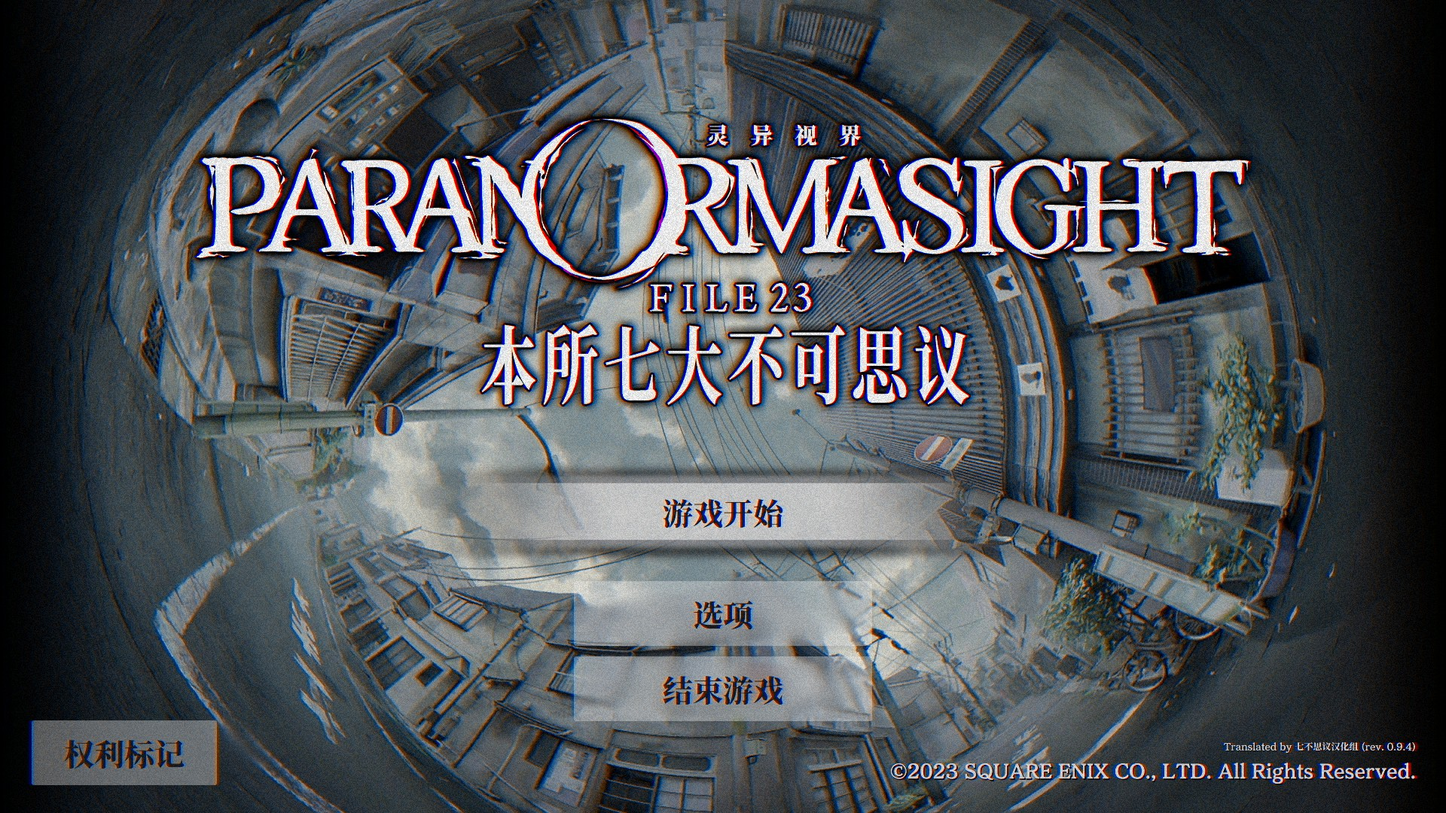
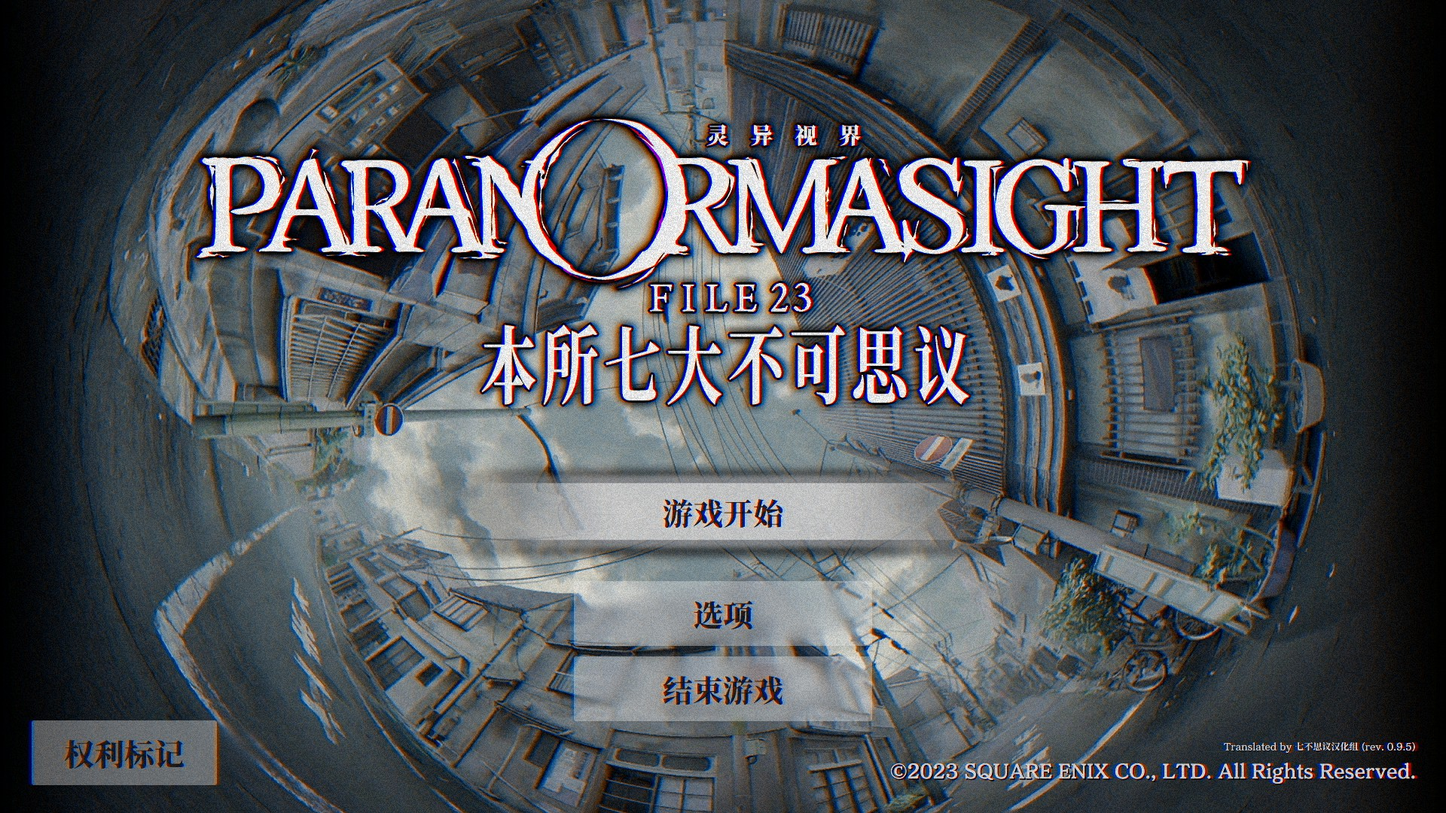
Rev. 0.9.5

diff --git a/README.md b/README.md
@@ -9,9 +9,11 @@
 
 目前，本项目正处于校对阶段，仅供试玩。如遇到文字不通顺的地方，请等待后续版本或参与翻译校对。
 
-本补丁基于 Steam 版制作，无法直接用于其他平台版本。
+本补丁基于 Steam 商店的 1.1 版制作（生成版本 ID：11663925），无法直接用于其他平台版本。
 
 ## 更新历史
+- 0.9.5（2023-07-27）：
+  - 匹配游戏 1.1 版本。
 - 0.9.4（2023-07-09）：
   - 修改了“狐狗狸”的文字盘。
   - 改进了姓名输入的判断方式。
@@ -55,7 +57,7 @@
 日文游戏中的棋盘使用了假名，英文游戏棋盘使用了字母。为了避免纯英文字母太长，汉化版的棋盘修改为了汉语拼音。这一改动仅为了方便理解，对游戏流程几乎没有影响。
 
 ## 相关链接
-- **[>>> 0.9.4 版本补丁下载地址 <<<](https://github.com/Xzonn/ParanormasightChsLocalization/releases/download/0.9.4/patch-0.9.4.zip)**
+- **[>>> 0.9.5 版本补丁下载地址 <<<](https://github.com/Xzonn/ParanormasightChsLocalization/releases/download/0.9.5/patch-0.9.5.zip)**
 - [开发版本补丁下载](https://github.com/Xzonn/ParanormasightChsLocalization/releases/tag/publish)
 - [补丁生成工具](https://github.com/Xzonn/ParanormasightChsLocalizationHelper)
 - [翻译项目网站](https://weblate.xzonn.top/projects/paranormasight/)
